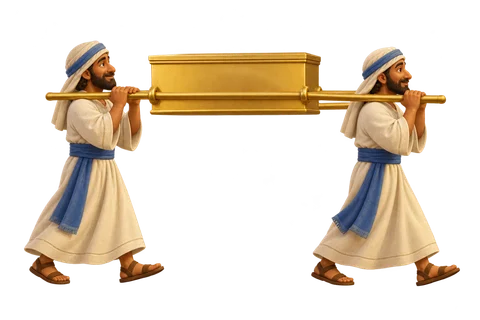
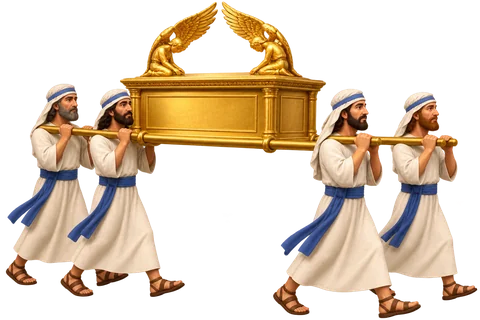
Josua Jordan game: new chest picture with four priests and two golden cherubim; the chest starts a little further from the waiting groups

diff --git a/src/data/adventures/josua.ts b/src/data/adventures/josua.ts
@@ -136,13 +136,13 @@ const MEMORY: MemoryGame = {
  * Etappe 4, "Durch den Jordan": die goldene Truhe mit den Priestern steht am linken Ufer, das Kind zieht sie in die Flussmitte (Runde 1), je weiter sie kommt, desto trockener wird das Flussbett; danach schickt
  * jedes Antippen eine von drei Gruppen des Volkes über das trockene Bett ans andere Ufer (Runde 2). Kein Fehler, kein Zeitdruck (Bildauftrag JO32; eigene Szene `jordan/fluss.webp`). Alle Orte sind Prozent des Bildes
  * und am gemalten Bild abgelesen und mit den Sprites zusammen angesehen (`jordan-messung-b.json`, Landung leicht nach rechts verschoben, damit alle drei Gruppen auf dem Gras landen): Truhe `start` und `middle`, die wartenden Gruppen `groups`, die Landung `farBank`.
- * Bilder (gemalt, 21.10.2026): `jordan/fluss.webp` 1200 × 900, `lade.webp` 360 × 300, `volk.webp` 360 × 280 (die zwei transparent).
+ * Bilder (gemalt, 21.10.2026): `jordan/fluss.webp` 1200 × 900, `lade.webp` 480 × 320 (vier Priester, zwei goldene Cherubim auf dem Deckel, JO32b), `volk.webp` 360 × 280 (die zwei transparent).
  */
 const JORDAN: CrossGame = {
   background: `${G}jordan/fluss.webp`,
   chest: `${G}jordan/lade.webp`,
   group: `${G}jordan/volk.webp`,
-  start: [18, 46],
+  start: [26, 46],
   middle: [54, 46],
   groups: [[13, 38], [13, 48], [13, 58]],
   farBank: [94, 42],
